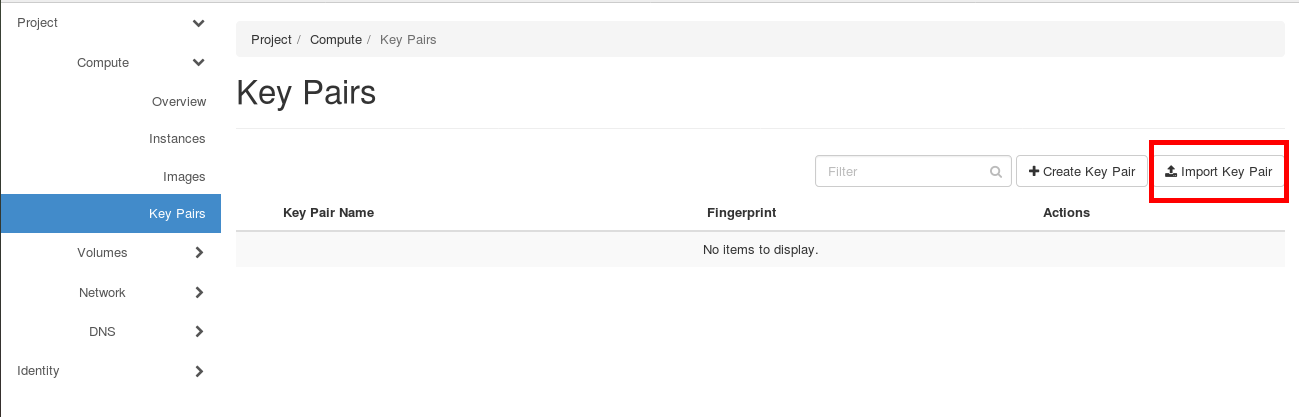
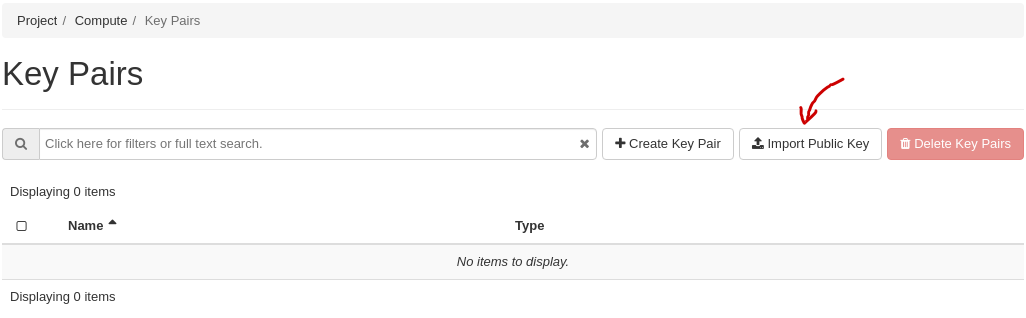
improve create linux vm

diff --git a/docs/create-virtual-machine.rst b/docs/create-virtual-machine.rst
@@ -13,52 +13,76 @@ Setting up a keypair
 
 Virtual machines in NREC are accessed using SSH keypairs. There are
 numerous ways to achieve this, depending on the OS on your local
-computer.
+computer. The preferred method is to create an SSH key pair on your
+local computer (or use an already existing one), and upload the public
+key into NREC.
 
 
 Importing an existing key
 ~~~~~~~~~~~~~~~~~~~~~~~~~
 
-If the local computer is Linux, any BSD variant such as
-FreeBSD, or MacOSX, the easiest way is to create a keypair locally if
-you don't already have one:
+This is the recommended approach.
+
+If the local computer is Linux, any BSD variant such as FreeBSD, MacOS
+or Windows 10, the easiest way is to create a keypair locally if you
+don't already have one, using the command ``ssh-keygen`` (on Windows
+it's called ``ssh-keygen.exe``):
 
 .. code-block:: console
 
-  $ ssh-keygen
+  $ cd ~
+  $ ssh-keygen -b 4096 -t rsa -f .ssh/nrec
   Generating public/private rsa key pair.
-  Enter file in which to save the key (/home/username/.ssh/id_rsa):
-  Enter passphrase (empty for no passphrase):
-  Enter same passphrase again:
-  Your identification has been saved in /home/username/.ssh/id_rsa.
-  Your public key has been saved in /home/username/.ssh/id_rsa.pub.
+  Enter passphrase (empty for no passphrase): 
+  Enter same passphrase again: 
+  Your identification has been saved in /home/username/.ssh/nrec
+  Your public key has been saved in /home/username/.ssh/nrec.pub
   The key fingerprint is:
-  SHA256:UrFhPtth14+S9f8BzMHsy+KbAZJMoC1s+8nHh9UDIc4 username@example.org
+  SHA256:VoocD4z2ek4FpjB7UrX2CNo5yu3PdvLS1T7jOUAIgCk username@localhost.localdomain
   The key's randomart image is:
-  +---[RSA 2048]----+
-  |     . .+.       |
-  |  . o +o.+. o.   |
-  |   = . E=.o .+o  |
-  |  . o o..=oo+o.+ |
-  |   .  .+So.oo=. o|
-  |    o o.+ . o.o .|
-  |     + + . o o ..|
-  |      . . . +   o|
-  |           +.   .|
+  +---[RSA 4096]----+
+  |   o...          |
+  |E o  +..         |
+  | .o = O. ..      |
+  |   O O O.o.      |
+  |  + * = S. .     |
+  | . = o o  o .    |
+  |  o o o. . o     |
+  |   . =+ o   =.   |
+  |    .o+=.  .o+   |
   +----[SHA256]-----+
 
-Another option is to let OpenStack create a keypair for you, more
-about that later. To import your existing keypair into OpenStack, go
-to the **Key Pairs** tab under **Project** and select "Key
-Pairs":
+Before running ssh-keygen we're making sure that the current working
+directory is our home directory. In this case we are creating a
+keypair of type RSA and 4096 bits long, which should provide
+sufficient security. We specify the output filename **.ssh/nrec**. The
+files created in your home directory are
+
+**.ssh/nrec**
+  This is the *private key*. It should be kept safe.
+
+**.ssh/nrec.pub**
+  This is the *public key*. It can be used to authenticate holders of
+  the private key.
+
+To import your existing public key into NREC, navigate to **Project**
+-> **Compute** -> **Key Pairs**:
 
 .. figure:: images/dashboard-access-and-security-01.png
    :align: center
-   :alt: Dashboard - Access & Security
+   :alt: Project -> Compute -> Key Pairs
 
-Click the button labeled "Import Key Pair". Give the keypair a name,
-and enter the contents of the **id_rsa.pub** file in the "Public Key"
-field:
+Click on **Import Key Pair**. In the dialog that appears, fill out the
+following:
+
+* **Key Pair Name**: Give the key pair a proper name, so you remember
+  what it is and where it can be accessed from (here: "homeoffice")
+
+* **Key Type**: Choose "SSH Key" from the drop-down menu
+
+* Either use **Choose File** and find the **.ssh/nrec.pub** file, or
+  cut & paste the contents of **.ssh/nrec.pub** into the "Public Key"
+  field
 
 .. figure:: images/dashboard-import-keypair-01.png
    :align: center
@@ -75,42 +99,40 @@ Letting OpenStack create a keypair
 ~~~~~~~~~~~~~~~~~~~~~~~~~~~~~~~~~~
 
 You can let OpenStack create a keypair for you, if you don't wish to
-use an existing one. Go to the **Key Pairs** tab
-under **Project** and select "Key Pairs":
+create one locally or use an existing one. Navigate to **Project**
+-> **Compute** -> **Key Pairs**:
 
 .. figure:: images/dashboard-access-and-security-03.png
    :align: center
    :alt: Dashboard - Access & Security
 
-Click on "Create Key Pair":
+Click on **Create Key Pair**:
 
 .. figure:: images/dashboard-create-keypair-01.png
    :align: center
    :alt: Dashboard - Create an SSH keypair
 
-Choose a name for you keypair and click "Create Key Pair". The newly
-created private key will be downloaded by the browser automatically:
-
-.. figure:: images/dashboard-create-keypair-02.png
-   :align: center
-   :alt: Dashboard - Download created keypair
+Choose a name for you key pair (here: "nrec"), select "SSH Key" from
+the **Key Type** drop-down menu, and click **Create Key Pair**. The newly
+created private key will be downloaded by the browser automatically as
+**<name>.pem** (here: "nrec.pem").
 
 The name of the downloaded file is based on the name you provided
-earlier. In this example the file is called "test.pem" as "test" was
+earlier. In this example the file is called "nrec.pem" as "nrec" was
 provided as the keypair name. Remember to restrict the access to the
 private key, as SSH will refuse to use unless it's properly
 protected:
 
 .. code-block:: console
 
-  $ chmod 0600 test.pem
+  $ chmod 0600 nrec.pem
 
 In order to use the downloaded private key, use the **-i** option to
 ssh, like this (example for "test.pem" above):
 
 .. code-block:: console
 
-  $ ssh -i test.pem -l <username> <virtual-machine>
+  $ ssh -i nrec.pem -l <username> <virtual-machine>
 
 Replace "<virtual-machine>" with the name or IP of the virtual machine
 that this keypair is assigned to, and "<username>" with the username
